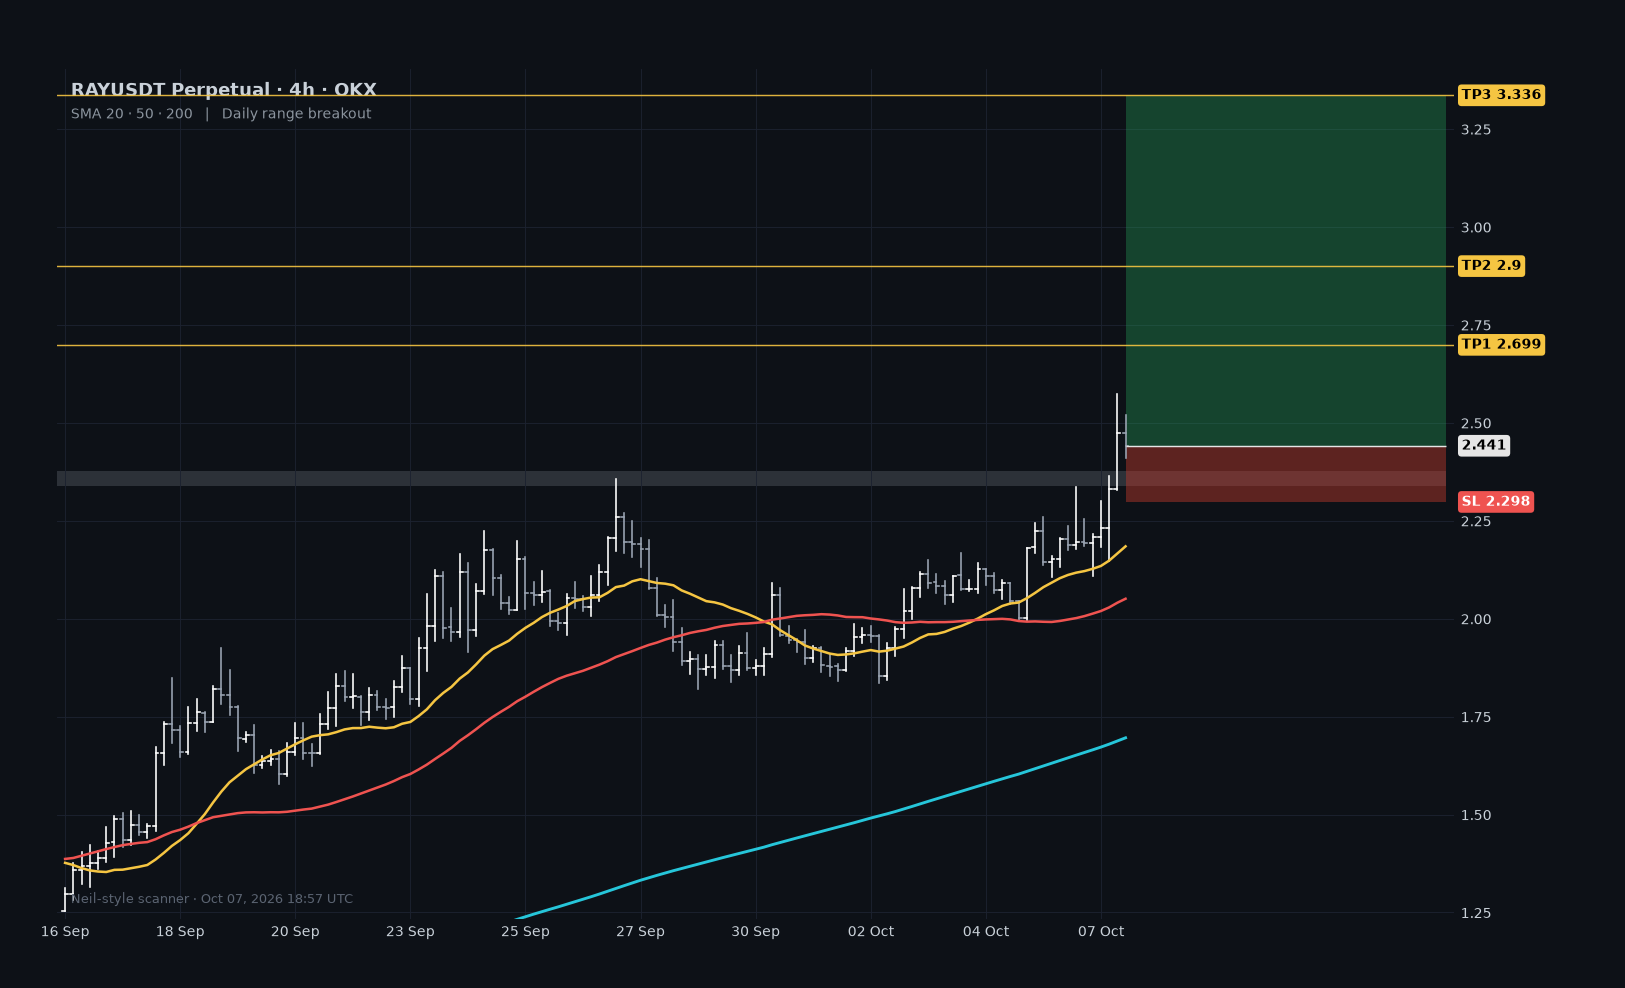
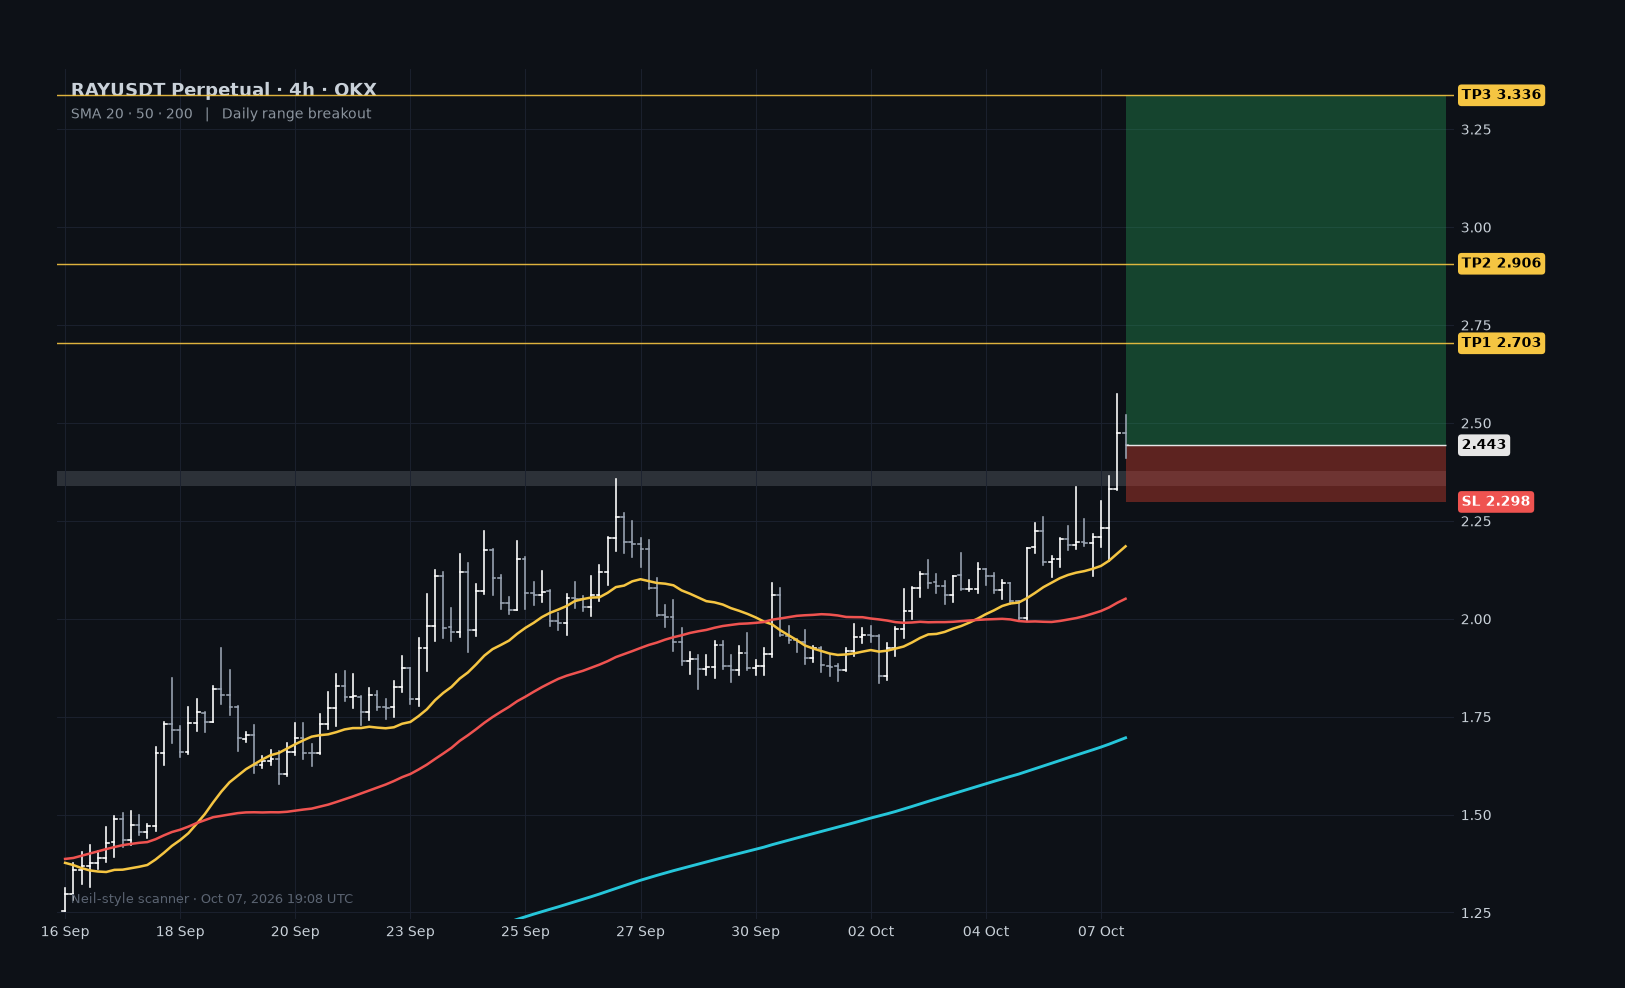
scan 2026-10-07 [skip ci]

Changed region(s): [[0.0308, 0.2429, 0.9538, 0.3036], [0.0308, 0.334, 0.9538, 0.3644], [0.7077, 0.4251, 0.9231, 0.4555]]

diff --git a/output/report.md b/output/report.md
@@ -2,58 +2,58 @@
 
 **BTC context:** BTC chopping around its 4H MAs — no fresh breakdown, but keep size normal and stops honest. (3d -2.3%)
 
-Scanned 171 USDT perps; 28 raw setups; showing top 3.
+Scanned 170 USDT perps; 27 raw setups; showing top 3.
 
 ## 1. NG — 4H SR flip / retest  (score 9.8)
 
-> Market long NG here at CMP (3.269). No DCA, 4H close under 3.211 for stops, TPs above — TP1 3.364 (1.6R) · TP2 3.454 (3.2R) · TP3 3.553 (4.9R). Once TP1 hits, stops to BE. SR flip trade — level flipped and holding, looking for continuation higher.
+> Market long NG here at CMP (3.271). No DCA, 4H close under 3.211 for stops, TPs above — TP1 3.364 (1.6R) · TP2 3.463 (3.2R) · TP3 3.565 (4.9R). Once TP1 hits, stops to BE. SR flip trade — level flipped and holding, looking for continuation higher.
 
-Risk to stop: 1.77% · TP1 1.6R · TP2 3.2R · TP3 4.9R
+Risk to stop: 1.83% · TP1 1.6R · TP2 3.2R · TP3 4.9R
 
 Why it qualifies:
 - 4H closed above the 3.251 resistance 2 bars ago and is holding above it, low already retested the level
 - level rejected price 21x before the flip
 - reclaim bar volume 6.0x the 20-bar average
 - above the 1H/4H/daily 200MA
-- 7d: +8.8% vs BTC -0.2% (RS +9.0%)
+- 7d: +8.9% vs BTC -0.2% (RS +9.1%)
 
 ![chart](output/charts/2026-10-07_NG.png)
 
-## 2. MUSTOCK — 4H SR flip / retest  (score 9.7)
+## 2. MUSTOCK — 4H SR flip / retest  (score 9.6)
 
-> Market long MUSTOCK here at CMP (1,087.19). No DCA, 4H close under 1,061.00 for stops, TPs above — TP1 1,162.00 (2.9R) · TP2 1,198.00 (4.2R) · TP3 1,254.00 (6.4R). Once TP1 hits, stops to BE. SR flip trade — level flipped and holding, looking for continuation higher.
+> Market long MUSTOCK here at CMP (1,080.56). No DCA, 4H close under 1,061.00 for stops, TPs above — TP1 1,108.00 (1.4R) · TP2 1,162.00 (4.2R) · TP3 1,254.00 (8.9R). Once TP1 hits, stops to BE. SR flip trade — level flipped and holding, looking for continuation higher.
 
-Risk to stop: 2.41% · TP1 2.9R · TP2 4.2R · TP3 6.4R
+Risk to stop: 1.81% · TP1 1.4R · TP2 4.2R · TP3 8.9R
 
 Why it qualifies:
 - 4H closed above the 1074.87 resistance 2 bars ago and is holding above it, low already retested the level
 - level rejected price 48x before the flip
 - reclaim bar volume 5.6x the 20-bar average
 - above the 1H/4H/daily 200MA
-- 7d: +1.7% vs BTC -0.2% (RS +1.8%)
+- 7d: +1.0% vs BTC -0.2% (RS +1.3%)
 
 ![chart](output/charts/2026-10-07_MUSTOCK.png)
 
 ## 3. RAY — Daily range breakout  (score 9.2)
 
-> Market long RAY here at CMP (2.441). No DCA, 4H close under 2.298 for stops, TPs above — TP1 2.699 (1.8R) · TP2 2.9 (3.2R) · TP3 3.336 (6.2R). Once TP1 hits, stops to BE. Daily range breakout — not missing this one, still looks good.
+> Market long RAY here at CMP (2.443). No DCA, 4H close under 2.298 for stops, TPs above — TP1 2.703 (1.8R) · TP2 2.906 (3.2R) · TP3 3.336 (6.2R). Once TP1 hits, stops to BE. Daily range breakout — not missing this one, still looks good.
 
-Risk to stop: 5.87% · TP1 1.8R · TP2 3.2R · TP3 6.2R
+Risk to stop: 5.93% · TP1 1.8R · TP2 3.2R · TP3 6.2R
 
 Why it qualifies:
 - daily close above the 20-day range high 2.3572 (0 day(s) ago) and holding
 - range depth 71% → measured move ~3.336
 - above the 1H/4H/daily 200MA
-- 7d: +25.5% vs BTC -0.2% (RS +25.6%)
+- 7d: +25.5% vs BTC -0.2% (RS +25.8%)
 
 ![chart](output/charts/2026-10-07_RAY.png)
 
 ## Watchlist (next in line)
 
-- SAND — sr_flip (score 9.4)
 - RAY — daily_breakout (score 9.17)
-- ADA — sr_flip (score 8.76)
+- MET — daily_breakout (score 9.07)
+- ADA — sr_flip (score 8.74)
 - STRK — ma_retest (score 8.67)
-- TESLA — sr_flip (score 8.59)
-- ZRO — daily_breakout (score 8.47)
+- ZRO — daily_breakout (score 8.48)
+- AVGO — sr_flip (score 8.46)
 - SPX500 — sr_flip (score 8.45)
